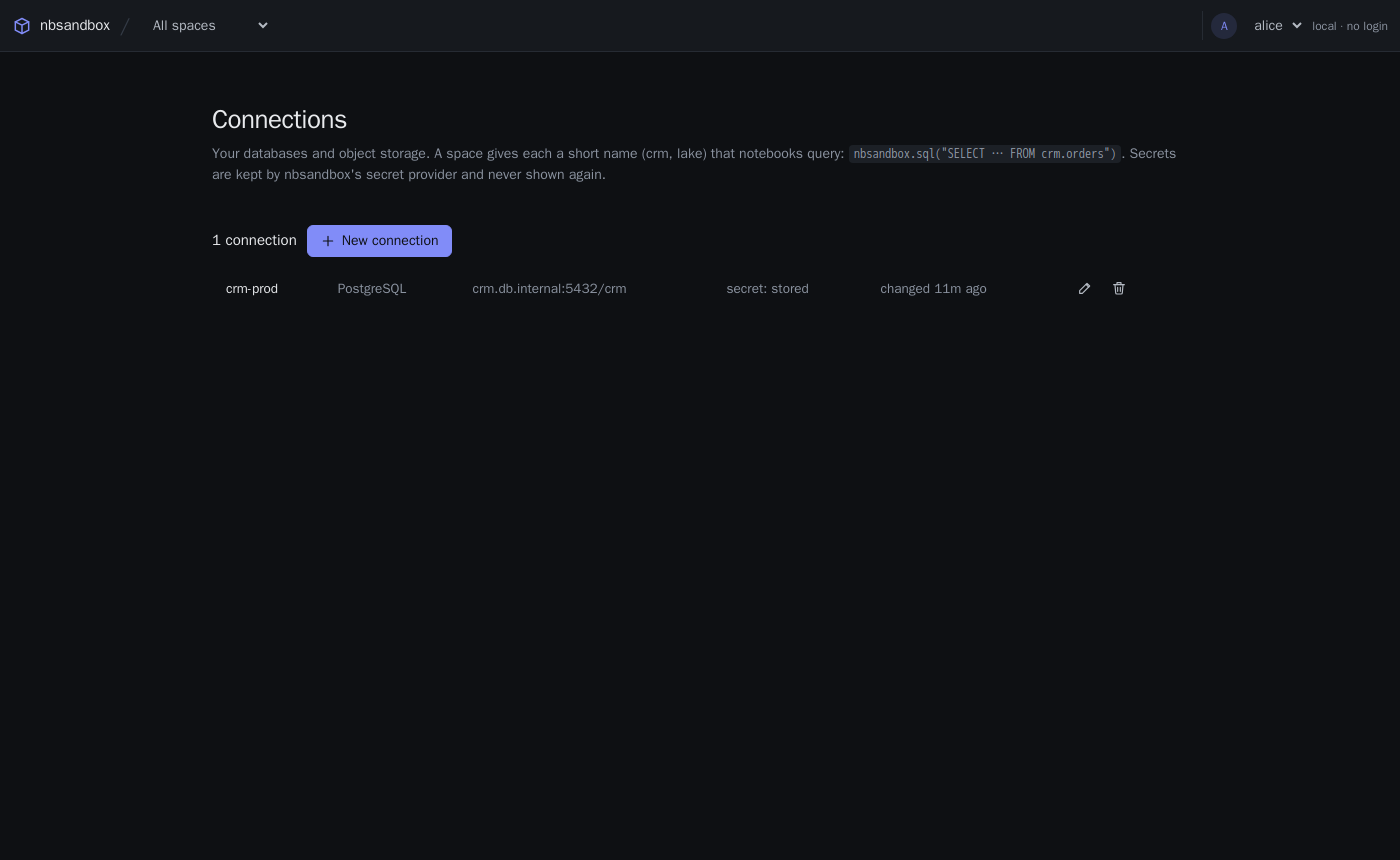
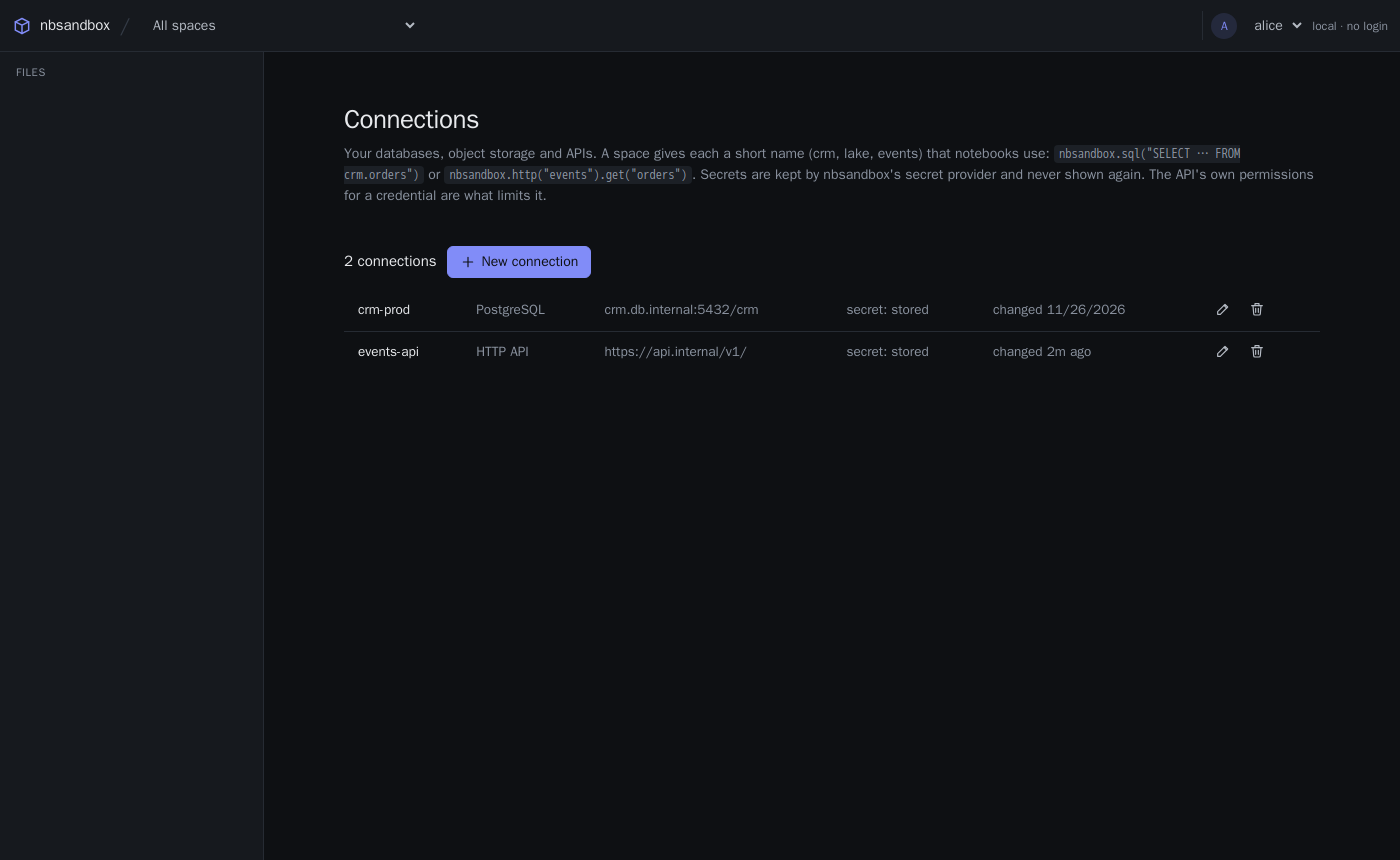
docs(connections): HTTP APIs in the docs, the web UI's form and the tour (H4)
- connections.md: calling an HTTP API (nbsandbox.http, connection(), the
  run's token, paths, auth kinds, TLS, redirects, errors, logs); the
  settings table; what a run can reach.
- The web UI's connection form takes auth and its settings, and ca.
- The API's description of http settings; README; CHANGELOG (Unreleased).
- The tour: an HTTP API among the connections (screenshots 16 to 19
  retaken).
- TestConnectionsHTTPTLS creates its connections before its space, so
  they're deleted after it (they were left behind).

diff --git a/internal/ui/web/connections.js b/internal/ui/web/connections.js
@@ -25,8 +25,13 @@ export const TYPES = {
   },
   azureblob: { label: "Azure Blob Storage", secret: "Connection string, account key or SAS",
     fields: [["account", "Account"], ["container", "Container"], ["endpoint", "Endpoint URL (optional)"], ["auth", "Secret kind (connection_string, account_key or sas)", "connection_string"]] },
-  http: { label: "HTTP API", secret: "Token or API key", optionalSecret: true,
-    fields: [["url", "URL"], ["auth_header", "Header", "Authorization"], ["auth_prefix", "Prefix", "Bearer "]] },
+  http: { label: "HTTP API", secret: "Token, API key, password or client secret (per auth)", optionalSecret: true,
+    fields: [["url", "URL (notebooks call paths under it)", "https://api.example.com/v1/"],
+      ["auth", "Auth (header, basic, oauth2 or none)", "header"],
+      ["auth_header", "Header (auth header)", "Authorization"], ["auth_prefix", "Prefix (auth header)", "Bearer "],
+      ["user", "User (auth basic)"], ["token_url", "Token URL (auth oauth2)"], ["client_id", "Client ID (auth oauth2)"],
+      ["scope", "Scope (auth oauth2, optional)"], ["audience", "Audience (auth oauth2, optional)"],
+      ["ca", "CA certificates (PEM; optional, for https, trusted beside the system's)", "-----BEGIN CERTIFICATE-----", "pem"]] },
 };
 
 const NAME = /^[a-z][a-z0-9_]{0,62}$/;
@@ -91,8 +96,9 @@ export function environmentPicker(api, space) {
 /** The Connections page: the user's connections, to add, change or delete. */
 export async function showConnections(api, page) {
   clear(page).append(el("div", { class: "hero" }, el("h1", {}, "Connections"),
-    el("p", {}, "Your databases and object storage. A space gives each a short name (crm, lake) that notebooks query: ",
-      el("code", {}, 'nbsandbox.sql("SELECT … FROM crm.orders")'), ". Secrets are kept by nbsandbox's secret provider and never shown again.")));
+    el("p", {}, "Your databases, object storage and APIs. A space gives each a short name (crm, lake, events) that notebooks use: ",
+      el("code", {}, 'nbsandbox.sql("SELECT … FROM crm.orders")'), " or ", el("code", {}, 'nbsandbox.http("events").get("orders")'),
+      ". Secrets are kept by nbsandbox's secret provider and never shown again. The API's own permissions for a credential are what limits it.")));
   const list = el("div", { class: "section" }, el("p", { class: "muted" }, "Loading…"));
   page.append(list);
   const render = async () => {

diff --git a/tests/integration/connections_http_test.go b/tests/integration/connections_http_test.go
@@ -168,6 +168,9 @@ func TestConnectionsHTTPTLS(t *testing.T) {
 		}
 		return connection(t, "secure", "http", s, apiToken)
 	}
+	// Connections before the space: cleanups run last first, and a space's
+	// connections can be deleted only once it is gone.
+	ours, system, others := secure(apiCA), secure(""), secure(other)
 	sp := space(t, "alice")
 	upload(t, "alice", sp, "", map[string]string{"tls.ipynb": codeNotebook(`import nbsandbox
 out = {}
@@ -177,7 +180,7 @@ for name in ["ours", "system", "other"]:
     except nbsandbox.APIError as e:
         out[name] = str(e)
 nbsandbox.output(out)`)})
-	bind(t, sp, "dev", map[string]map[string]string{"dev": {"ours": secure(apiCA), "system": secure(""), "other": secure(other)}})
+	bind(t, sp, "dev", map[string]map[string]string{"dev": {"ours": ours, "system": system, "other": others}})
 	run := startRun(t, "alice", sp, "tls.ipynb", nil)
 	res := runResult(t, "alice", sp, run.ID)
 	if res.Status != "succeeded" {

diff --git a/docs/connections.md b/docs/connections.md
@@ -1,6 +1,6 @@
 # Reading data where it lives: connections
 
-A notebook can read a database or an object store without the data being copied into nbsandbox, and without seeing a host name or a password. The user registers a **connection** once (where the data is, and its credential), and a space gives it a short **name**. The notebook then queries the name:
+A notebook can read a database or an object store, and call an HTTP API, without the data being copied into nbsandbox, and without seeing a host name or a password. The user registers a **connection** once (where the data is, and its credential), and a space gives it a short **name**. The notebook then queries the name:
 
 ```python
 import nbsandbox
@@ -14,9 +14,10 @@ This is off unless the operator turns it on ([below](#for-operators)).
 
 **What works today:**
 - PostgreSQL, MySQL and SQL Server databases, and S3-compatible object storage (AWS S3, MinIO, Ceph, RustFS), with CSV and Parquet files.
+- HTTP APIs (JSON, uploads, server-sent events), called by the notebook's own code through the fetcher, which adds the credential: a header token, basic auth, or OAuth 2.0 client credentials ([below](#7-call-an-http-api)).
 - Runs, interactive sessions and published functions, on Docker and on Kubernetes.
 
-**Not yet:** Azure Blob storage and HTTP APIs (connections of those types can be created and bound, but nothing reads them yet).
+**Not yet:** Azure Blob storage (connections of that type can be created and bound, but nothing reads them yet).
 
 **In the web UI:** **Connections** on the spaces page lists yours, to add, change or delete (the secret field is write-only); each space's page has a **Connections** section, a name per row and an environment per column; and where a space has several environments, a picker next to **Run** chooses the one runs, sessions and function calls read in.
 
@@ -41,6 +42,7 @@ curl -u alice:… -X POST https://nbsandbox.example/v1/connections -H 'Content-T
 | `mysql` | `host`, `port` (3306), `database`, `user`, `tls` (`prefer`), `ca` | the password |
 | `sqlserver` | `host`, `port` (1433), `database`, `user` (a SQL login), `tls` (`prefer`; not `verify`) | the password |
 | `s3` | `endpoint` (`host[:port]`, no scheme), `bucket`, `region` (us-east-1), `access_key_id`, `use_ssl` (true), `url_style` (`vhost`, or `path` for MinIO, Ceph, RustFS), `ca` | the secret access key |
+| `http` | `url` (notebooks call paths under it), `auth` (`header`), and by `auth`: `auth_header` (Authorization) and `auth_prefix` (`"Bearer "`) for `header`; `user` for `basic`; `token_url`, `client_id`, `scope`, `audience` for `oauth2`; `ca` | the token or API key (`header`, optional), the password (`basic`), the client secret (`oauth2`); none for `none` |
 
 **Give nbsandbox a read-only user.** The database's own permissions are what really limits a query: nbsandbox refuses writes and more, but a role that can only `SELECT` the tables a notebook needs is the guarantee.
 
@@ -128,12 +130,42 @@ A version records the names its space bound when it was published, and their typ
 
 Functions are called by their space's owner today, so they read the space's own bindings. With shared spaces, each caller's own connections will stand behind the same names.
 
+### 7. Call an HTTP API
+
+The notebook's own code makes the requests, with any HTTP client, through its fetcher: the fetcher checks them, adds the connection's credential, and forwards them through the egress gateway. The credential never enters the run.
+
+```python
+import nbsandbox
+
+api = nbsandbox.http("events")                       # a requests.Session for the name
+orders = api.get("orders", params={"since": "2026-11-01"}).json()
+api.post("imports", json={"rows": 120})
+for line in api.get("stream", stream=True).iter_lines():   # server-sent events, as they arrive
+    ...
+
+c = nbsandbox.connection("events")                   # for other clients and SDKs
+c.url        # the fetcher's address for the name: call paths under it
+c.headers    # the header with the run's token: send it with each request
+c.token      # or give the token to an SDK as its API key
+client = SomeSDK(base_url=c.url, api_key=c.token)
+```
+
+- **Paths** are relative to the connection's `url`: with `https://api.example.com/v1/`, `api.get("orders")` calls `https://api.example.com/v1/orders`. A path outside it (`../admin`) is refused. Any method works.
+- **The run's token stands in for the credential:** in `X-Nbsandbox-Token`, or in the connection's own auth header (`Authorization: Bearer <token>`, or the `auth_header` you set), so an SDK that takes a base URL and an API key works unchanged. The fetcher replaces it with the real credential.
+- **The credential's own permissions in the API are what limits a notebook,** as a database's role does: give nbsandbox a key that can do only what notebooks need.
+- **`oauth2`** is the client credentials grant: the fetcher gets an access token from `token_url` (sending `client_id`, the secret, and `scope` and `audience` if set), keeps it until a minute before it expires, and gets a new one once if the API answers `401`. The operator must allow the token URL's host too.
+- **HTTPS** certificates are checked against the system's authorities, and `ca` if you give it. Plain `http://` works, but anyone on the network can read it.
+- **Redirects** aren't followed: one under the connection's URL comes back with the fetcher's address, which requests follows; one elsewhere can't be reached from the run. WebSocket upgrades aren't supported.
+- **Errors** from the fetcher itself (a name the run doesn't have, a path outside the URL, an API it can't reach) raise `nbsandbox.APIError` in `nbsandbox.http()`; other clients see the status, with an `X-Nbsandbox-Error: fetcher` header. The API's own answers, errors included, come back as they are.
+- **In the fetcher's log** (the run's log, `[fetcher]`): each request's name, method, path, status, bytes and time; never query strings, bodies or credentials.
+
 ## What a run can and can't reach
 
 | | |
 |---|---|
-| The credentials | Never in the run: only the fetcher has them. The run gets a token for its own fetcher. |
+| The credentials | Never in the run: only the fetcher has them, for APIs too. The run gets a token for its own fetcher. |
 | The sources directly | No: the run's network is private to it and its fetcher (and the gateway, which needs the fetcher's own token). |
+| An API, beyond its connection | Only paths under the connection's `url`, with the run's token, and certificates checked. |
 | Another run's fetcher | No: each reading run has its own network (Docker), or its own network policies (Kubernetes). |
 | The internet | No. |
 | The fetcher's files and settings | No: it reads only its run's buckets, and its configuration is locked after start. |

diff --git a/README.md b/README.md
@@ -12,7 +12,7 @@ Run Jupyter notebooks headless, each in its own isolated sandbox, with live logs
 - **Web editor:** browse spaces, edit notebooks and files with completion from the runner's packages, run, follow the log, see charts and maps in the results. Users sign in with your identity provider (or a users file) ([docs/auth.md](docs/auth.md#signing-in-to-the-web-ui)).
 - **Interactive sessions:** run a notebook's cells one by one in a live kernel, as in Jupyter, with a run's isolation. Completion comes from the real objects (`df.` lists a DataFrame's columns). In the editor, or over a WebSocket of Jupyter messages ([docs/sessions.md](docs/sessions.md)).
 - **A space's own packages:** a `requirements.txt` is built once into a package set the space's runs import, with no network in the runs ([docs/packages.md](docs/packages.md)).
-- **Data where it lives:** notebooks query PostgreSQL, MySQL, SQL Server and S3-compatible storage by names their space defines (`nbsandbox.sql("SELECT … FROM crm.orders")`), per environment (dev, prod), never seeing a host or a password: a fetcher of the run's own reads for it ([docs/connections.md](docs/connections.md)).
+- **Data where it lives:** notebooks query PostgreSQL, MySQL, SQL Server and S3-compatible storage by names their space defines (`nbsandbox.sql("SELECT … FROM crm.orders")`), and call HTTP APIs (`nbsandbox.http("events").get("orders")`), per environment (dev, prod), never seeing a host or a password: a fetcher of the run's own reads for it and adds the credentials ([docs/connections.md](docs/connections.md)).
 - **For operators:** an audit log of every change and download, administrators who can list and stop any run, and draining before maintenance ([docs/operations.md](docs/operations.md#audit-log)).
 
 Every run executes in a **fresh, locked-down container or Pod**. Code in one space can't see another space's files, processes or memory, can't reach the network, and can't use up another run's resources. An automated test suite checks each of these and writes a report: Docker ([report](docs/isolation-report.md)), Linux with Docker Engine with `runc` and gVisor side by side ([report](docs/isolation-report-linux.md)), and Kubernetes ([report](docs/isolation-report-kubernetes.md)).
@@ -47,7 +47,7 @@ client ──HTTPS──> nbsandboxd (API) ───────┐
 - **API and workers:** one process can be both (`role: all`), or run them separately and scale each ([docs/scaling.md](docs/scaling.md)). Workers claim queued runs from PostgreSQL, with leases so a run whose worker dies is taken over.
 - **Runner image:** Python 3.13 with papermill and the data-science packages listed by `GET /v1/runtime`. A space can add its own packages ([docs/packages.md](docs/packages.md)), or you build your own image for everyone.
 - **Files:** contents live in object storage (RustFS, Ceph, AWS S3, Azure Blob), each stored once. A run works on its own copy, and its changes are written back with conflict checks.
-- **Reading data where it lives:** a space names your databases and buckets (PostgreSQL, MySQL, SQL Server, S3-compatible storage), and notebooks query them with `nbsandbox.sql(...)`. A run never sees a credential: a fetcher container or Pod beside it holds them and reads the sources through an egress gateway, only the endpoints that run may reach ([docs/connections.md](docs/connections.md)).
+- **Reading data where it lives:** a space names your databases, buckets and APIs (PostgreSQL, MySQL, SQL Server, S3-compatible storage, HTTP), and notebooks query them with `nbsandbox.sql(...)` or call them with `nbsandbox.http(...)`. A run never sees a credential: a fetcher container or Pod beside it holds them and reads the sources through an egress gateway, only the endpoints that run may reach ([docs/connections.md](docs/connections.md)).
 - **Interactive sessions** keep a notebook's kernel alive between cells, in the web editor or over the API ([docs/sessions.md](docs/sessions.md)); **published functions** let a service call a notebook ([docs/functions.md](docs/functions.md)).
 - **Compute:** `GET /v1/workers` and the web UI's Compute page show the workers and how busy each is; a run's page charts its memory, CPU and disk writes ([docs/scaling.md](docs/scaling.md)).
 

diff --git a/docs/tour.md b/docs/tour.md
@@ -100,15 +100,15 @@ With a session, completion asks the kernel itself, so it knows the real objects:
 
 ### 16. Your connections
 
-![The Connections page: a PostgreSQL connection, its host and database, its secret never shown](images/tour/16-connections.png)
+![The Connections page: a PostgreSQL connection and an HTTP API, where each points, their secrets never shown](images/tour/16-connections.png)
 
-Where the operator turns them on, **Connections** holds your databases and buckets ([connections.md](connections.md)). You give each one's address and credential once; the secret goes to nbsandbox's secret provider and is never shown again.
+Where the operator turns them on, **Connections** holds your databases, buckets and APIs ([connections.md](connections.md)). You give each one's address and credential once; the secret goes to nbsandbox's secret provider and is never shown again.
 
 ### 17. A space's names for them
 
-![A space's Connections table: the name crm, the environments dev and prod, the connection each means](images/tour/17-space-connections.png)
+![A space's Connections table: the names crm and events, the environments dev and prod, the connection each means](images/tour/17-space-connections.png)
 
-A space gives each connection a short name, per environment, so the same notebook reads development or production data: `nbsandbox.sql("SELECT … FROM crm.orders")`. A run never sees the credential: a fetcher beside it reads the source.
+A space gives each connection a short name, per environment, so the same notebook reads development or production data: `nbsandbox.sql("SELECT … FROM crm.orders")`, or calls an API: `nbsandbox.http("events").get("orders")`. A run never sees the credential: a fetcher beside it reads the source, or adds the credential to the notebook's requests.
 
 ### 18. What a run uses
 

diff --git a/CHANGELOG.md b/CHANGELOG.md
@@ -4,6 +4,17 @@ All notable changes. The format follows [Keep a Changelog](https://keepachangelo
 
 ## [Unreleased]
 
+### Upgrading from 0.4.0
+
+- **Fetchers serve a second port, 8816,** for HTTP APIs. Helm's per-run NetworkPolicies include it; nothing to configure.
+- **An `oauth2` HTTP connection's token URL** is reached through the gateway too: its host must be in `connections.allowed`.
+
+### Added
+
+- **HTTP APIs in notebooks:** an `http` connection's API is called by the notebook's own code, with any HTTP client, through its run's fetcher, which adds the credential: `nbsandbox.http("events").get("orders")`, or `nbsandbox.connection("events")` (a base URL and the run's token) for other clients and SDKs. JSON, uploads and server-sent events stream both ways. The credential never enters the run ([connections.md](docs/connections.md#7-call-an-http-api)).
+- **HTTP connections take `auth`:** `header` (the default, as before), `basic`, `oauth2` (client credentials: the fetcher gets and renews the access token) or `none`; and `ca` for an HTTPS API with a private authority. A connection allows paths under its `url` only.
+- **The isolation report** has seven rows for HTTP APIs, and the soak's reading space calls one.
+
 ## [0.4.0] - 2026-11-26
 
 ### Upgrading from 0.3.0

diff --git a/docs/plan-data-access.md b/docs/plan-data-access.md
@@ -245,7 +245,7 @@ Each phase usable on its own:
    - H1: the fetcher's HTTP port with `header` and `none` auth, `nbsandbox.http()` and `connection()`, on Docker, with tests against a local API (JSON, SSE, uploads, refused paths and tokens);
    - H2: `basic` and `oauth2` (against Keycloak, already in the weekly run), and `ca`;
    - H3: Kubernetes (the NetworkPolicy's port), the isolation-report rows, the soak's reading space calling an API (`nbsandbox-report check` has no connections section yet, for databases either);
-   - H4: the web UI's connection form, API, gRPC and MCP fields, docs, an example notebook, the tour.
+   - H4: the web UI's connection form, the API's description of the settings, docs, the tour (gRPC takes settings as a Struct and MCP has no connection tools: nothing to change; no example notebook, as the dev stack has no API to call).
 3. **Iceberg tables and catalogs.**
 4. **Runs with several runners:** orchestrator and workers, splits, partial aggregation with DuckDB, limits per run (and so run sizes).
 5. **A distributed engine,** when a workload needs one.
